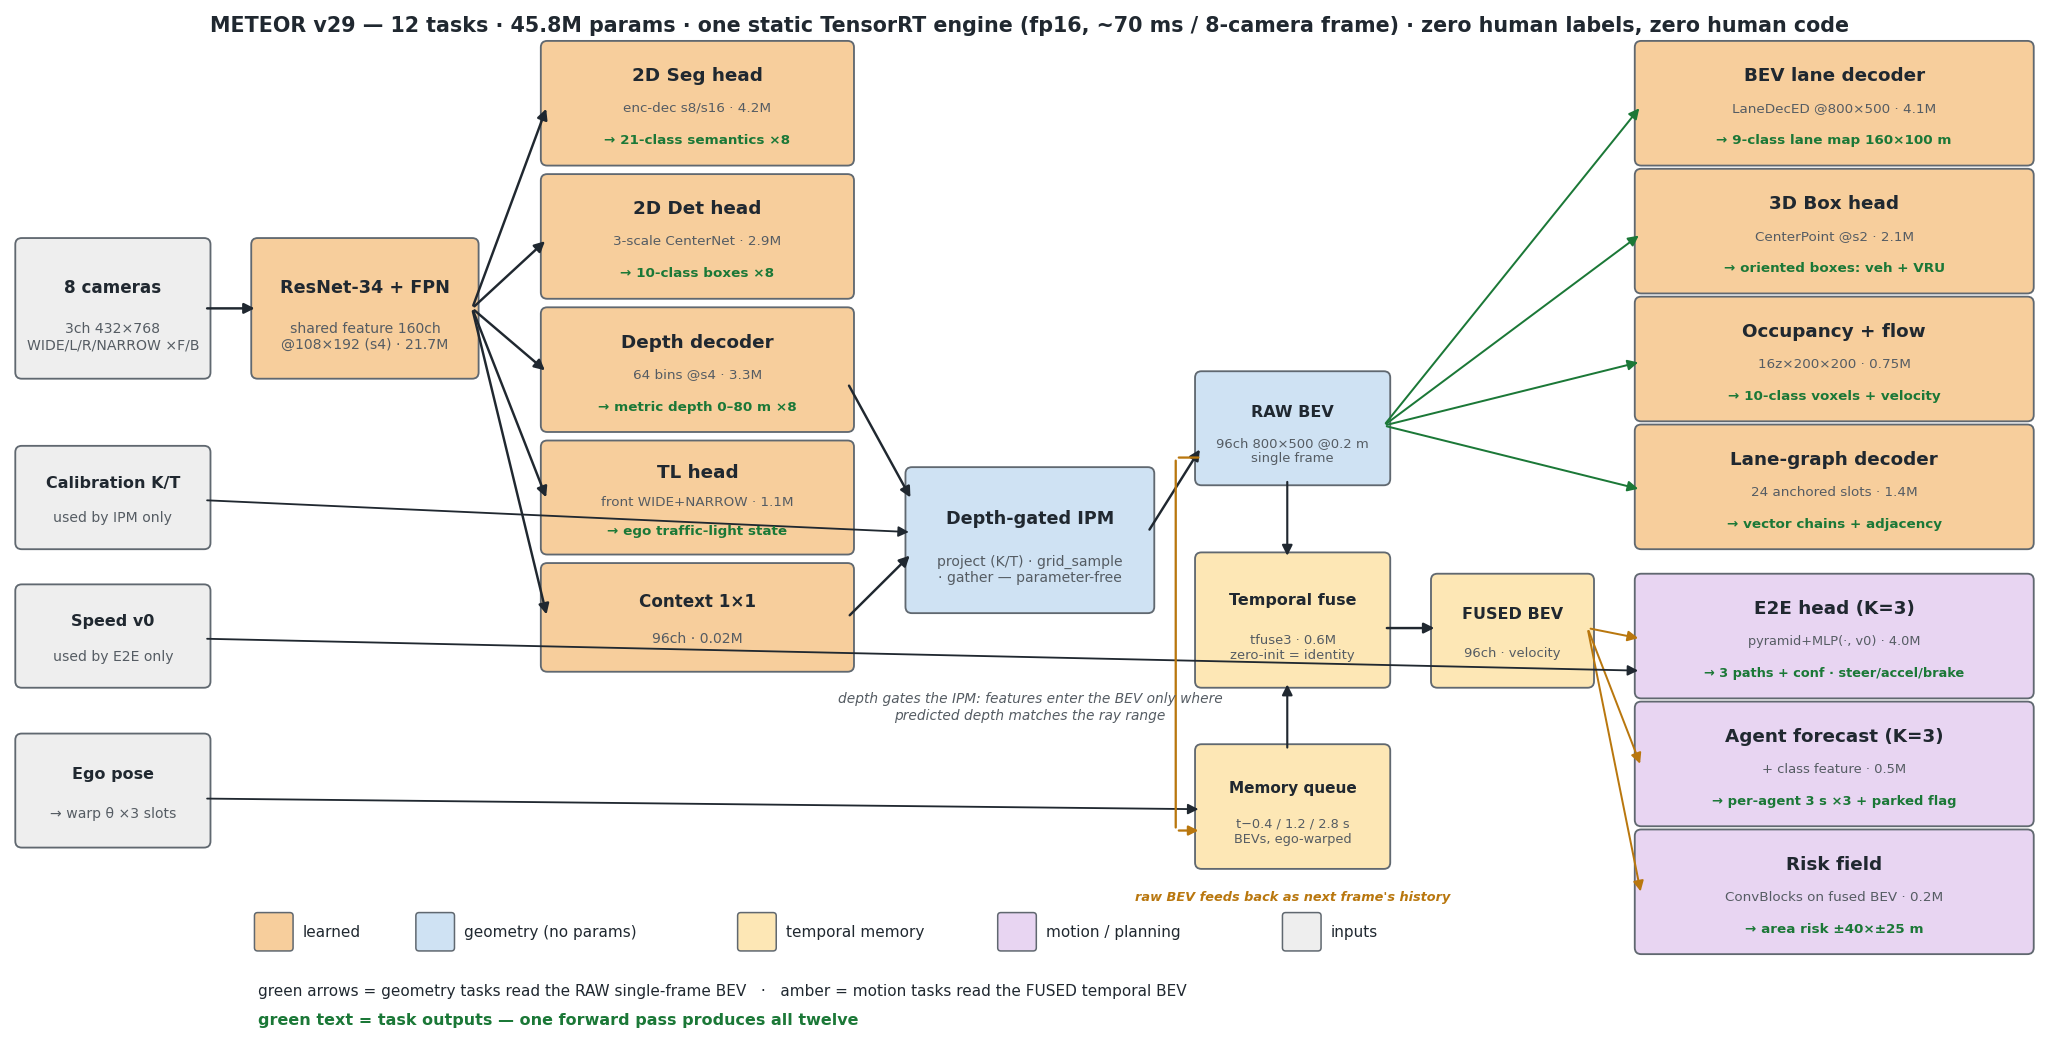
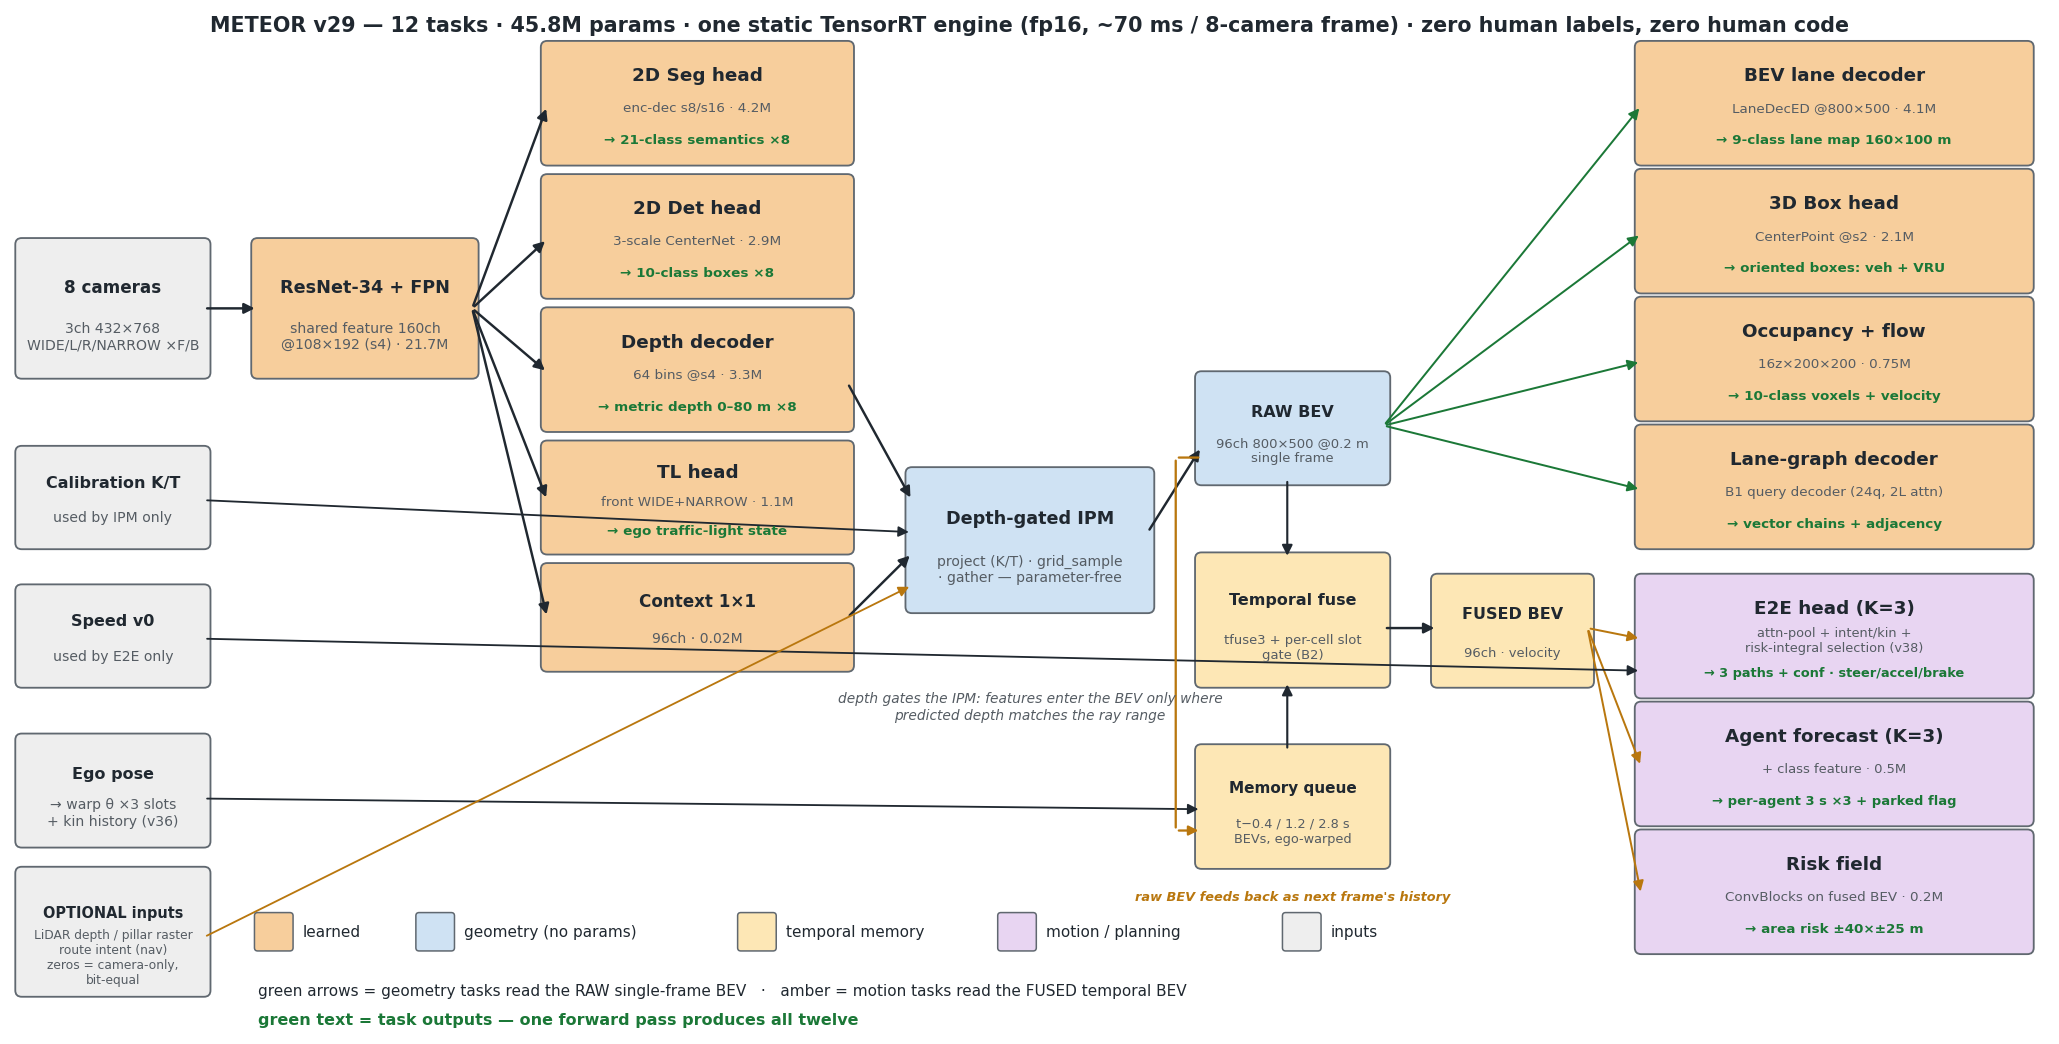
diagrams: v38/v39 architecture refresh + four task-detail diagrams (PPTX slides + README)

diff --git a/build_task_diagrams.py b/build_task_diagrams.py
@@ -1,0 +1,143 @@
+#!/usr/bin/env python3
+"""Per-task detail diagrams -> docs/media/detail_*.png (v38/v39 era).
+
+Four figures: BEV generation, temporal memory & routing, E2E planning
+stack (with guardrails), perception heads (det / forecast / unknown /
+lane graph / occupancy).
+"""
+import matplotlib
+matplotlib.use("Agg")
+import matplotlib.pyplot as plt
+from matplotlib.patches import FancyArrowPatch, FancyBboxPatch
+
+AI = "#F7CE9C"; OP = "#CFE2F3"; E2E = "#E8D5F2"; MEM = "#FDE7B5"
+IN = "#EEEEEE"; SAFE = "#D9EAD3"
+EDGE = "#606870"; DARK = "#202830"; GREEN = "#1B7837"; AMBER = "#B9770E"
+RED = "#C0392B"
+
+
+def new_fig(w=15.5, h=7.6):
+    fig, ax = plt.subplots(figsize=(w, h), dpi=115)
+    ax.set_xlim(0, 155); ax.set_ylim(0, 76); ax.axis("off")
+    return fig, ax
+
+
+def mk(ax):
+    def box(x, y, w, h, title, sub="", fc=AI, fs=11.5, sfs=8.8, out=""):
+        ax.add_patch(FancyBboxPatch((x, y), w, h, boxstyle="round,pad=0.6",
+                                    fc=fc, ec=EDGE, lw=1.2))
+        lines = 1 + bool(sub) + bool(out)
+        top = y + h - h / (lines + 1)
+        step = h / (lines + 1) * 1.15
+        ax.text(x + w / 2, top, title, ha="center", va="center", fontsize=fs,
+                fontweight="bold", color=DARK)
+        if sub:
+            ax.text(x + w / 2, top - step, sub, ha="center", va="center",
+                    fontsize=sfs, color="#555c63")
+        if out:
+            ax.text(x + w / 2, top - step * (1 + bool(sub)), out,
+                    ha="center", va="center", fontsize=sfs, color=GREEN,
+                    fontweight="bold")
+
+    def arrow(x1, y1, x2, y2, lw=1.6, col=DARK, dash=False):
+        ax.add_patch(FancyArrowPatch((x1, y1), (x2, y2), arrowstyle="-|>",
+                                     mutation_scale=13, lw=lw, color=col,
+                                     linestyle="--" if dash else "-"))
+    return box, arrow
+
+
+# ---------------------------------------------------------------- 1. BEV
+fig, ax = new_fig(); box, arrow = mk(ax)
+ax.set_title("BEV generation — depth-gated IPM with optional LiDAR "
+             "(v31/v32)", fontsize=15, fontweight="bold", color=DARK)
+box(2, 52, 22, 14, "8 cameras", "432×768 ×8", fc=IN)
+box(2, 30, 22, 12, "LiDAR points", "OPTIONAL — zeros =\ncamera-only bit-equal",
+    fc=IN)
+box(30, 52, 26, 14, "Backbone + Depth", "per-pixel depth softmax\n64 bins, 0–80 m")
+box(30, 30, 26, 12, "C6a sharpen", "p' = (1−αm)p + αm·tri(d)\nelementwise only",
+    fc=MEM)
+box(62, 52, 26, 14, "Depth-gated IPM", "project by K/T, weight by\ndepth prob at true range",
+    fc=OP)
+box(62, 30, 26, 12, "C6b pillar branch", "raster 400×250×4 → conv\nflag-gated residual",
+    fc=MEM)
+box(94, 44, 24, 16, "RAW BEV 96ch", "800×500 @0.2 m\nexact geometry", fc=OP)
+box(124, 44, 28, 16, "All 12 heads", "+ temporal queue", fc=E2E,
+    out="zero optional inputs →\nidentical camera-only net")
+arrow(24, 59, 30, 59); arrow(24, 36, 30, 36); arrow(56, 59, 62, 59)
+arrow(43, 52, 43, 42); arrow(56, 36, 66, 42, col=AMBER)
+arrow(88, 59, 94, 54); arrow(75, 42, 98, 44, col=AMBER)
+arrow(118, 52, 124, 52)
+fig.savefig("docs/media/detail_bev.png", bbox_inches="tight",
+            facecolor="white")
+
+# ----------------------------------------------------- 2. temporal memory
+fig, ax = new_fig(); box, arrow = mk(ax)
+ax.set_title("Temporal memory & task routing (v29 + B2)", fontsize=15,
+             fontweight="bold", color=DARK)
+box(2, 46, 22, 14, "RAW BEV (t)", fc=OP)
+box(2, 12, 22, 20, "Memory queue", "t−0.4 / −1.2 / −2.8 s\nego-warped by pose θ",
+    fc=MEM)
+box(32, 34, 30, 16, "B2 slot gate + tfuse3", "per-cell softmax over 4 slots\nzero-init = today's fusion",
+    fc=MEM)
+box(70, 34, 22, 14, "FUSED BEV", "motion context", fc=MEM)
+box(102, 52, 48, 12, "GEOMETRY heads ← RAW", "lanes · 3D boxes · occupancy\n(no moving-object ghosts)",
+    fc=OP)
+box(102, 30, 48, 12, "MOTION heads ← FUSED", "E2E · forecasting · flow · risk",
+    fc=E2E)
+box(102, 8, 48, 12, "Motion residual (v30+)", "RAW − warped slot0 → forecast\noncoming reads as signed dipole",
+    fc=E2E)
+arrow(13, 46, 13, 32); arrow(24, 22, 32, 38); arrow(24, 53, 36, 50)
+arrow(62, 42, 70, 41); arrow(24, 56, 102, 58, col=GREEN)
+arrow(92, 41, 102, 36, col=AMBER); arrow(24, 50, 102, 14, col=AMBER, dash=True)
+ax.text(60, 5, "raw BEV rings back as next frame's history (streaming, TRT-safe)",
+        fontsize=9.5, style="italic", color=AMBER, fontweight="bold")
+fig.savefig("docs/media/detail_temporal.png", bbox_inches="tight",
+            facecolor="white")
+
+# ------------------------------------------------------------- 3. E2E
+fig, ax = new_fig(); box, arrow = mk(ax)
+ax.set_title("E2E planning stack (v36–v39) + deterministic guardrails (C7)",
+             fontsize=15, fontweight="bold", color=DARK)
+box(2, 56, 20, 12, "FUSED BEV", fc=MEM)
+box(2, 40, 20, 12, "v0 + kin history", "accel / yaw-rate\nfrom memory poses", fc=IN)
+box(2, 24, 20, 12, "Intent (E6)", "straight/left/right\nzeros = no nav", fc=IN)
+box(28, 48, 26, 16, "B3 attention pool", "K=3 queries × 400\nBEV tokens", fc=E2E)
+box(28, 26, 26, 14, "v39 decoupled", "heading φ(t) × speed v(t)\ncumsum composition", fc=E2E)
+box(60, 40, 26, 20, "K=3 hypotheses", "ε-WTA · diverse init\n+ conf logits", fc=E2E)
+box(92, 40, 26, 20, "v38 selection", "conf − gate·∫risk\nalong each path", fc=E2E,
+    out="chosen plan")
+box(60, 8, 58, 18, "GUARDRAIL (deterministic)", "spacetime collision · red-light ·\nfeasibility · drivable  →  VETO ⇒ MRM stop",
+    fc=SAFE)
+box(124, 40, 28, 20, "Output", "path + steer/accel/brake", fc=E2E,
+    out="ADE 0.78→0.67 (intent)\nADEc 0.41 record")
+arrow(22, 62, 28, 58); arrow(22, 46, 60, 48); arrow(22, 30, 60, 44)
+arrow(54, 56, 60, 52); arrow(54, 33, 60, 44); arrow(86, 50, 92, 50)
+arrow(118, 50, 124, 50); arrow(105, 40, 95, 26, col=RED)
+ax.text(105, 3, "checker runs on RAW-BEV heads = partially independent input path",
+        fontsize=9.5, style="italic", color=DARK)
+fig.savefig("docs/media/detail_e2e.png", bbox_inches="tight",
+            facecolor="white")
+
+# ---------------------------------------------- 4. perception head detail
+fig, ax = new_fig(); box, arrow = mk(ax)
+ax.set_title("Perception heads — detection, forecasting, unknown, "
+             "lane graph, occupancy", fontsize=15, fontweight="bold",
+             color=DARK)
+box(2, 46, 20, 14, "RAW BEV", fc=OP)
+box(2, 24, 20, 14, "FUSED BEV\n+ motion residual", fc=MEM, fs=10.5)
+box(28, 56, 34, 12, "3D box head", "CenterPoint + crossing-yaw\nweight (yaw 4.7°, flip 8%)")
+box(28, 42, 34, 12, "Unknown head (v34)", "temporal stem → cones/posts\n0.4 m fixed, occ-blob GT")
+box(28, 28, 34, 12, "Forecast + stationary", "det-yaw feature + heading loss\nvehHead 23°, vruHead 63°", fc=E2E)
+box(28, 14, 34, 12, "Occupancy + flow", "16z voxels + velocity\nnear-ego FP penalty (v33)")
+box(68, 42, 36, 14, "B1 lane-graph decoder", "24 queries, self+cross attn\nover 352 BEV ROI tokens")
+box(68, 22, 36, 14, "B4 interaction (lite)", "scene token → forecast\ncontext residual", fc=E2E)
+box(110, 34, 42, 20, "Outputs", "boxes+unknown / futures /\nvoxels+flow / vector graph",
+    fc=E2E, out="all from ONE BEV;\neach head < 5% compute")
+arrow(22, 55, 28, 61); arrow(22, 52, 28, 48); arrow(22, 33, 28, 34)
+arrow(22, 50, 28, 20, dash=True); arrow(22, 53, 68, 48, col=GREEN)
+arrow(22, 30, 68, 28, col=AMBER); arrow(62, 61, 110, 46)
+arrow(62, 48, 110, 44); arrow(62, 34, 110, 42); arrow(62, 20, 110, 38)
+arrow(104, 48, 110, 46); arrow(104, 29, 110, 40)
+fig.savefig("docs/media/detail_heads.png", bbox_inches="tight",
+            facecolor="white")
+print("saved 4 detail diagrams")

diff --git a/build_arch_diagram.py b/build_arch_diagram.py
@@ -50,7 +50,8 @@ def arrow(x1, y1, x2, y2, lw=1.6, col=DARK):
 box(1, 62, 17, 12, "8 cameras", "3ch 432×768\nWIDE/L/R/NARROW ×F/B", fc=IN, fs=11)
 box(1, 46, 17, 8.5, "Calibration K/T", "used by IPM only", fc=IN, fs=10.5)
 box(1, 33, 17, 8.5, "Speed v0", "used by E2E only", fc=IN, fs=10.5)
-box(1, 18, 17, 9.5, "Ego pose", "→ warp θ ×3 slots", fc=IN, fs=10.5)
+box(1, 18, 17, 9.5, "Ego pose", "→ warp θ ×3 slots\n+ kin history (v36)", fc=IN, fs=10.5)
+box(1, 4, 17, 11, "OPTIONAL inputs", "LiDAR depth / pillar raster\nroute intent (nav)\nzeros = camera-only,\nbit-equal", fc=IN, fs=9.5, sfs=8.0)
 
 # ---- image branch ----
 box(23, 62, 20, 12, "ResNet-34 + FPN",
@@ -70,7 +71,7 @@ box(84, 40, 22, 12.5, "Depth-gated IPM",
     "project (K/T) · grid_sample\n· gather — parameter-free", fc=OP, fs=11.5)
 box(111, 52, 17, 9.5, "RAW BEV", "96ch 800×500 @0.2 m\nsingle frame", fc=OP,
     fs=10.5, sfs=8.6)
-box(111, 33, 17, 11.5, "Temporal fuse", "tfuse3 · 0.6M\nzero-init = identity",
+box(111, 33, 17, 11.5, "Temporal fuse", "tfuse3 + per-cell slot\ngate (B2)",
     fc=MEM, fs=10.5, sfs=8.6)
 box(111, 16, 17, 10.5, "Memory queue", "t−0.4 / 1.2 / 2.8 s\nBEVs, ego-warped",
     fc=MEM, fs=10, sfs=8.4)
@@ -83,11 +84,11 @@ box(152, 70, 36, 10.5, "3D Box head", "CenterPoint @s2 · 2.1M",
     out="→ oriented boxes: veh + VRU", sfs=8.8)
 box(152, 58, 36, 10.5, "Occupancy + flow", "16z×200×200 · 0.75M",
     out="→ 10-class voxels + velocity", sfs=8.8)
-box(152, 46, 36, 10.5, "Lane-graph decoder", "24 anchored slots · 1.4M",
+box(152, 46, 36, 10.5, "Lane-graph decoder", "B1 query decoder (24q, 2L attn)",
     out="→ vector chains + adjacency", sfs=8.8)
 
 # ---- motion heads (from FUSED BEV) ----
-box(152, 32, 36, 10.5, "E2E head (K=3)", "pyramid+MLP(·, v0) · 4.0M",
+box(152, 32, 36, 10.5, "E2E head (K=3)", "attn-pool + intent/kin +\nrisk-integral selection (v38)",
     out="→ 3 paths + conf · steer/accel/brake", fc=E2E, sfs=8.4)
 box(152, 20, 36, 10.5, "Agent forecast (K=3)", "+ class feature · 0.5M",
     out="→ per-agent 3 s ×3 + parked flag", fc=E2E, sfs=8.6)
@@ -111,6 +112,7 @@ for hy in (87, 75, 63, 51):               # raw BEV -> geometry heads
 for hy in (37, 25, 13):                   # fused BEV -> motion heads
     arrow(147, 38, 152, hy, col=AMBER, lw=1.3)
 arrow(18, 37, 152, 34, lw=1.2)            # v0 -> E2E
+arrow(18, 9, 84, 42, lw=1.2, col=AMBER)   # optional LiDAR -> IPM/BEV
 
 # streaming feedback: the raw BEV returns as next frame's history.
 # Routed through the clear gap between the IPM box (ends x=106.6) and the

diff --git a/build_pptx_algo_v29.py b/build_pptx_algo_v29.py
@@ -151,8 +151,17 @@ bullets(s, [
 ], y=1.45, size=18)
 
 # 3 architecture --------------------------------------------------------
-s = slide("全体アーキテクチャ (v29)", "8 cam → depth-gated IPM → BEV 96ch → 3-slot memory → 12 heads")
+s = slide("全体アーキテクチャ (v38/v39)", "8 cam → depth-gated IPM → BEV 96ch → 3-slot memory → 12 heads + optional LiDAR/intent")
 pic(s, "docs/media/architecture.png", 0.65, 1.5, w=12.0)
+
+# 3.1-3.4 task detail diagrams -------------------------------------------
+for ttl, sub, img in (
+    ("詳細: BEV生成", "depth-gated IPM + オプションLiDAR (C6a/C6b) — ゼロ入力=カメラオンリーbit一致", "detail_bev.png"),
+    ("詳細: 時系列メモリとtask routing", "3スロット+B2ゲート・幾何=RAW/動的=FUSED・運動残差", "detail_temporal.png"),
+    ("詳細: E2E計画スタック+ガードレール", "意図・運動学・B3・リスク統合選択・v39デカップリング・C7", "detail_e2e.png"),
+    ("詳細: 知覚ヘッド群", "3D検出・unknown・予測・B1レーングラフ・OCC+flow", "detail_heads.png")):
+    s = slide(ttl, sub)
+    pic(s, f"docs/media/{img}", 0.9, 1.6, w=11.5)
 
 # 4 BEV generation ------------------------------------------------------
 s = slide("BEV生成: 深度ゲート IPM", "学習するのは「どの画素を信じるか」だけ")

diff --git a/README.md b/README.md
@@ -114,6 +114,13 @@ its ingredients are machine-made:
 <img src="docs/media/architecture.png" width="880" alt="METEOR architecture"/>
 </div>
 
+### Task-level detail diagrams
+
+| | |
+|---|---|
+| <img src="docs/media/detail_bev.png" alt="BEV generation"/> | <img src="docs/media/detail_temporal.png" alt="temporal memory"/> |
+| <img src="docs/media/detail_e2e.png" alt="E2E planning + guardrails"/> | <img src="docs/media/detail_heads.png" alt="perception heads"/> |
+
 The signature block is the **depth-gated IPM**: BEV grid points are projected into every
 camera (K/T), context features are `grid_sample`d, and each sample is **gated by the
 predicted depth probability at its true range** — depth acts as a learned visibility valve
